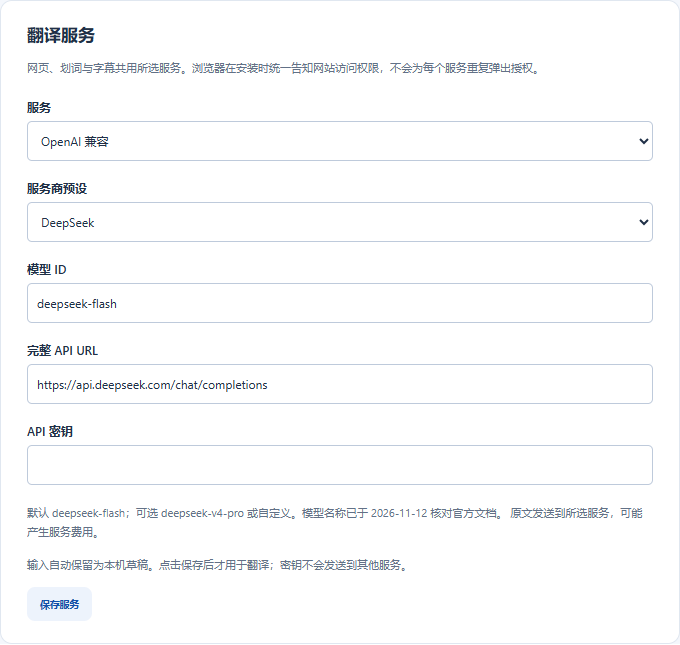
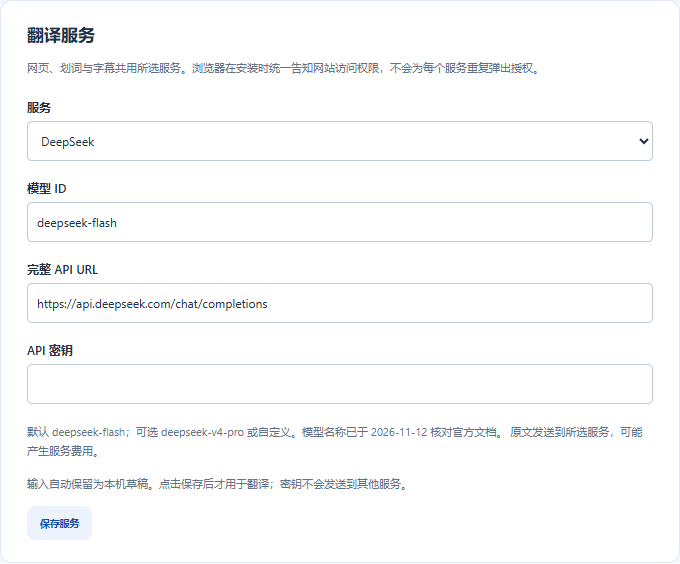
feat: highlight DeepSeek and refresh product README

Changed region(s): [[0.0309, 0.0301, 0.9574, 0.6933], [0.0309, 0.7535, 0.9574, 0.9645], [0.9265, 0.211, 0.9574, 0.2713]]

diff --git a/src/popup/service-editor.js b/src/popup/service-editor.js
@@ -5,9 +5,9 @@ import { loadProviderDraftStore, PUBLIC_SERVICES, SERVICE_NAMES, providerPreset 
 const AI = new Set(['openai', 'anthropic', 'gemini']);
 const markup = `
 <form id="service-form">
-  <div class="field"><label for="service">服务</label><select id="service"><option value="bing">微软翻译</option><option value="google">Google 公共服务</option><option value="libre">自备 LibreTranslate</option><option value="openai">OpenAI 兼容</option><option value="anthropic">Anthropic</option><option value="gemini">Gemini</option></select></div>
+  <div class="field"><label for="service">服务</label><select id="service"><option value="bing">微软翻译（免费）</option><option value="deepseek">DeepSeek</option><option value="google">Google 公共服务</option><option value="libre">自备 LibreTranslate</option><option value="openai">OpenAI 兼容</option><option value="anthropic">Anthropic</option><option value="gemini">Gemini</option></select></div>
   <div id="ai-fields" hidden>
-    <div class="field"><label for="provider">服务商预设</label><select id="provider"></select></div>
+    <div id="provider-field" class="field"><label for="provider">服务商预设</label><select id="provider"></select></div>
     <label class="field" for="model">模型 ID<input id="model" type="text" list="model-list" placeholder="选择推荐模型或填写自定义模型 ID" autocomplete="off" spellcheck="false" /><datalist id="model-list"></datalist></label>
   </div>
   <div id="custom-fields" hidden>
@@ -42,13 +42,20 @@ export async function mountServiceEditor(container, { settings, onSaved = () => 
   }
   function render(draft) {
     current = { ...draft };
-    field('service').value = draft.service;
+    const deepseek = draft.service === 'openai' && draft.preset === 'deepseek';
+    field('service').value = deepseek ? 'deepseek' : draft.service;
+    field('provider-field').hidden = deepseek;
     const ai = AI.has(draft.service);
     const custom = !PUBLIC_SERVICES.has(draft.service);
     field('provider').replaceChildren();
-    const presets = PROVIDER_PRESETS.filter(p => p.id !== 'custom' && p.service === draft.service);
+    const presets = PROVIDER_PRESETS.filter(p => p.id !== 'custom' && p.id !== 'deepseek' && p.service === draft.service);
     for (const preset of [...presets, { id: 'custom', name: '自定义接口' }]) {
       const option = document.createElement('option'); option.value = preset.id; option.textContent = preset.name; field('provider').append(option);
+    }
+    // The dedicated entry still writes the original openai/deepseek draft keys.
+    if (deepseek) {
+      const option = document.createElement('option');
+      option.value = 'deepseek'; option.textContent = 'DeepSeek'; field('provider').append(option);
     }
     field('provider').value = draft.preset;
     field('endpoint').value = draft.endpoint;
@@ -71,7 +78,10 @@ export async function mountServiceEditor(container, { settings, onSaved = () => 
   }
   field('service').addEventListener('change', () => {
     const service = field('service').value;
-    render(store.get(service, store.lastPreset(service)));
+    const protocol = service === 'deepseek' ? 'openai' : service;
+    let preset = service === 'deepseek' ? 'deepseek' : store.lastPreset(protocol);
+    if (service === 'openai' && preset === 'deepseek') preset = 'openai';
+    render(store.get(protocol, preset));
     void persist();
   });
   field('provider').addEventListener('change', () => {

diff --git a/src/popup/index.js b/src/popup/index.js
@@ -1,8 +1,9 @@
 import { DEFAULT_SETTINGS, loadSettings, saveSettings } from '../shared/settings.js';
-import { SERVICE_NAMES } from '../shared/provider-drafts.js';
+import { serviceName } from '../shared/provider-drafts.js';
 import { mountServiceEditor } from './service-editor.js';
 const byId = id => document.getElementById(id);
 const translateButton = byId('translate');
+let serviceSettings = {};
 let activeTab, available = false, pending = false, refreshing = false;
 function status(id, text, error = false) { const node = byId(id); node.textContent = text; node.dataset.error = String(error); if (id === 'preference-status') node.hidden = !text; }
 function renderPage(value) {
@@ -67,8 +68,9 @@ try {
   byId('auto-translate').checked = settings.autoTranslate;
   byId('youtube-enabled').checked = settings.youtubeEnabled;
   byId('selection-enabled').checked = settings.selectionEnabled;
-  byId('service-name').textContent = SERVICE_NAMES[settings.service];
-  await mountServiceEditor(byId('service-editor'), { settings, onSaved: async saved => { byId('service-name').textContent = SERVICE_NAMES[saved.service]; await notifyPage(); } });
+  serviceSettings = settings;
+  byId('service-name').textContent = serviceName(settings);
+  await mountServiceEditor(byId('service-editor'), { settings, onSaved: async saved => { serviceSettings = saved; byId('service-name').textContent = serviceName(saved); await notifyPage(); } });
   byId('auto-translate').disabled = false; byId('youtube-enabled').disabled = false; byId('selection-enabled').disabled = false;
 } catch { status('preference-status', '无法读取设置，请重新加载扩展。', true); }
 try { await connectPage(); } catch { status('page-status', '无法读取当前页面，请重新打开弹窗。', true); }
@@ -78,7 +80,8 @@ window.addEventListener('pagehide', () => clearInterval(timer), { once: true });
 const preferencesChanged = (changes, area) => {
   if (area !== 'local') return;
   for (const [id, key] of [['auto-translate', 'autoTranslate'], ['youtube-enabled', 'youtubeEnabled']]) if (key in changes) byId(id).checked = changes[key].newValue ?? DEFAULT_SETTINGS[key];
-  if ('service' in changes) byId('service-name').textContent = SERVICE_NAMES[changes.service.newValue] || SERVICE_NAMES.bing;
+  for (const key of ['service', 'preset']) if (key in changes) serviceSettings[key] = changes[key].newValue;
+  if ('service' in changes || 'preset' in changes) byId('service-name').textContent = serviceName(serviceSettings);
 };
 chrome.storage.onChanged?.addListener(preferencesChanged);
 window.addEventListener('pagehide', () => chrome.storage.onChanged?.removeListener(preferencesChanged), { once: true });

diff --git a/src/shared/provider-drafts.js b/src/shared/provider-drafts.js
@@ -5,6 +5,9 @@ const FIELDS = ['endpoint', 'apiKey', 'model'];
 const SERVICES = new Set(['bing', 'google', 'libre', 'openai', 'anthropic', 'gemini']);
 export const PUBLIC_SERVICES = new Set(['bing', 'google']);
 export const SERVICE_NAMES = { bing: '微软翻译', google: 'Google 公共服务', libre: '自备 LibreTranslate', openai: 'OpenAI 兼容', anthropic: 'Anthropic', gemini: 'Gemini' };
+export function serviceName(settings) {
+  return settings.service === 'openai' && settings.preset === 'deepseek' ? 'DeepSeek' : SERVICE_NAMES[settings.service] || SERVICE_NAMES.bing;
+}
 export function providerPreset(service, preset) { return PROVIDER_PRESETS.find(item => item.id === preset && item.id !== 'custom' && item.service === service); }
 export function firstPreset(service) { return PROVIDER_PRESETS.find(item => item.id !== 'custom' && item.service === service)?.id || 'custom'; }
 export function normalizeDraft(value = {}) {

diff --git a/README.md b/README.md
@@ -1,145 +1,130 @@
 <p align="center">
-  <img src="assets/icon-128.png" alt="旁译 Aside 原创图标" width="80" height="80">
+  <img src="assets/icon-128.png" alt="旁译 Aside" width="80" height="80">
 </p>
 
 <h1 align="center">旁译 Aside</h1>
 
-<p align="center">网页双语、划词翻译与 YouTube 双语字幕。选一段文字，也能单独翻译。</p>
+<p align="center">网页双语阅读 · 划词翻译 · YouTube 双语字幕</p>
 
 <p align="center">
+  <a href="https://github.com/jking412/aside-translate/releases"><img src="https://img.shields.io/github/v/tag/jking412/aside-translate?label=version&color=2563eb" alt="版本"></a>
   <a href="https://github.com/jking412/aside-translate/actions/workflows/ci.yml"><img src="https://github.com/jking412/aside-translate/actions/workflows/ci.yml/badge.svg?branch=main" alt="构建与测试"></a>
-  <a href="https://github.com/jking412/aside-translate/releases/tag/v0.3.0"><img src="https://img.shields.io/badge/版本-v0.3.0%20预发布-blue" alt="v0.3.0 预发布"></a>
-  <a href="LICENSE"><img src="https://img.shields.io/badge/许可证-MIT-green" alt="MIT 许可证"></a>
+  <a href="LICENSE"><img src="https://img.shields.io/badge/license-MIT-green" alt="MIT"></a>
 </p>
 
 <p align="center">
-  <a href="#下载安装">下载安装</a> · <a href="#功能">功能</a> · <a href="#界面预览">界面预览</a> · <a href="#翻译服务">翻译服务</a> · <a href="#验证状态">验证状态</a> · <a href="#开发">开发</a>
+  <strong><a href="https://github.com/jking412/aside-translate/releases/download/v0.3.1/aside-translate-0.3.1.zip">下载旁译</a></strong> ·
+  <a href="#安装">安装指南</a> ·
+  <a href="#翻译服务">配置 DeepSeek</a> ·
+  <a href="https://github.com/jking412/aside-translate/issues">反馈问题</a>
 </p>
 
-旁译是原生 JavaScript 编写的轻量 Chromium MV3 扩展，无账户和云同步，运行时没有 npm 依赖，也无需常驻 Node 服务。
+旁译是一款面向 Chrome 和 Edge 的轻量翻译扩展。阅读外文网页时，在原文旁查看中文；遇到想细读的一句，选中即可翻译；观看 YouTube 时，用双语字幕对照理解。免费翻译开箱即用，也可以接入自己的 DeepSeek 或其他大模型。
 
-> **v0.3.0：** 新增划词翻译：选中文字，在旁边点击“翻译”，用当前服务查看原文和中文译文；默认开启，可在弹窗或设置页关闭。延续此前的网页双语、字幕与空格修复。真实 YouTube 在线字幕仍受原版和新版共同遇到的空响应限制，详见[验证状态](#验证状态)。
+<p align="center">
+  <img src="docs/images/popup.png" alt="旁译弹窗，提供网页翻译、自动翻译、划词翻译和 YouTube 双语字幕开关" width="344">
+</p>
 
-## 下载安装
+## 用旁译阅读
 
-安装包解压后即可加载，**使用扩展不需要安装 Node.js**。
+### 网页双语，保留阅读上下文
 
-| 下载 | 用途 |
-| --- | --- |
-| [下载旁译 v0.3.0 扩展 ZIP](https://github.com/jking412/aside-translate/releases/download/v0.3.0/aside-translate-0.3.0.zip) | Chrome / Edge 等桌面 Chromium 浏览器，共用一个包 |
-| [下载 SHA-256 校验文件](https://github.com/jking412/aside-translate/releases/download/v0.3.0/aside-translate-0.3.0.zip.sha256) | 校验 ZIP 文件完整性 |
-| [查看版本说明与已知限制](https://github.com/jking412/aside-translate/releases/tag/v0.3.0) | v0.3.0 预发布页面 |
+点击页面上的悬浮按钮或工具栏中的「翻译此页」，中文译文随段落呈现，原文始终可见。需要时一键恢复，也可以打开自动翻译，让之后访问的网页直接进入双语阅读。
 
-1. 下载上表 ZIP，解压到固定文件夹；文件夹内应直接包含 `manifest.json`。
-2. Chrome 打开 `chrome://extensions`，Edge 打开 `edge://extensions`，开启“开发者模式”。
-3. 选择“加载已解压的扩展”，选中解压后的文件夹；将旁译固定到工具栏，刷新准备翻译的网页。
+- 支持滚动加载的新段落，阅读到哪里，翻译到哪里。
+- 保留原文的链接和格式，方便对照阅读、继续浏览。
+- 支持 `Alt+A` 翻译与恢复，`Alt+W` 打开快捷面板。
 
-更新时解压新包，在扩展管理页重新加载，再刷新已有网页。GitHub 自动生成的 **Source code** 是源码包，需要按[开发说明](#开发)构建后使用。目前未上架 Chrome / Edge 商店。
+### 选中一句，单独翻译
 
-## 功能
+选中文字后，点击选区旁的「翻译」，在浮窗中查看原文与中文译文。适合查阅一句说明、读懂一段引用，或在整页翻译前先看重点。
 
-| 功能 | 使用方式 |
-| --- | --- |
-| **网页翻译** | 保留原文，在段落后显示中文。点击页面悬浮球或工具栏“翻译此页”，再次点击恢复；支持拖动吸边、快捷面板、Alt+A / Alt+W、自动翻译与动态新增段落。 |
-| **划词翻译** | 鼠标选中网页文字后，点击旁边的“翻译”按钮，在浮窗查看原文与中文。单纯选择不会发送请求；支持关闭、Esc、错误重试和长文本分段。 |
-| **YouTube 双语字幕** | 打开有字幕的视频，自动触发 CC 并读取播放器原生字幕；提前翻译、按视频时钟显示原文与中文两行。播放器内可切换，拖动、换片和关闭时清理旧字幕。 |
+### YouTube，原文与译文一起看
 
-网页翻译将内联文字合并为完整段落，保留原链接、强调和事件；译文使用安全恢复的对应行内元素。短行紧随原文，长段另起一行，滚动靠近后再翻译。供应商未保留有效格式标记、或单段富文本超过请求上限时，译文安全降为纯文本；原文的链接和事件继续保留。恢复时删除扩展自己的译文，页面应用后来的更新不会被旧快照覆盖。输入框、代码块和播放器区域不参与网页翻译。
+打开带字幕的视频，旁译会读取可用字幕，在播放器内分行展示原文与中文。支持提前翻译，字幕大小随播放器调整，拖动进度或切换视频后跟随当前播放位置更新。
 
-字幕默认优先使用匹配的人工中文轨；缺少人工轨或关闭人工优先时，调用所选翻译服务。可在独立设置页控制人工优先与预先翻译。完整时间轴不可读时，尝试翻译播放器当前字幕，无法预译未来内容；接口慢时可能缺少译文。无字幕轨的视频不会从音频生成文字。
+已有合适的人工中文字幕时优先使用，也可以选择自己的翻译服务。播放器内的翻译按钮与独立设置页都可以控制字幕。
 
-## 界面预览
+## 安装
 
-<table>
-  <tr>
-    <td align="center"><img src="docs/images/popup.png" alt="旁译默认弹窗：翻译按钮、自动翻译和双语字幕开关、折叠服务配置" width="300"></td>
-    <td align="center"><img src="docs/images/subtitles-controlled.png" alt="受控视频中的原文与中文分行字幕演示" width="640"></td>
-  </tr>
-  <tr>
-    <td>默认弹窗，配置保持折叠。</td>
-    <td>合成视频、人工双语输入的受控字幕演示。</td>
-  </tr>
-</table>
+支持桌面版 **Chrome、Edge 及其他 Chromium 浏览器**，使用扩展无需安装 Node.js。
 
-<p align="center"><img src="docs/images/selection-controlled.png" alt="选中网页英文后，旁边出现划词翻译浮窗，显示原文和受控结果" width="596"></p>
+1. **[下载扩展 ZIP](https://github.com/jking412/aside-translate/releases/download/v0.3.1/aside-translate-0.3.1.zip)**，解压到一个固定文件夹。
+2. 在 Chrome 中打开 `chrome://extensions`，或在 Edge 中打开 `edge://extensions`，开启「开发者模式」。
+3. 点击「加载已解压的扩展」，选择包含 `manifest.json` 的文件夹。
+4. 将旁译固定到工具栏，刷新网页，即可使用。
 
-划词图片使用合成网页与回显测试服务，展示选区和浮窗交互，不代表线上翻译质量。
-
-<p align="center"><img src="docs/images/options-deepseek.png" alt="真实扩展设置页：DeepSeek 官方地址与默认模型已填好，只需输入自己的密钥" width="680"></p>
-
-以上均为本项目自己的截图：弹窗图使用受控 Chrome API 替身；字幕图来自加载真实构建的隔离浏览器，输入是合成数据；DeepSeek 图来自实际扩展设置标签页，密钥为空。**字幕演示图不代表真实 YouTube 在线验收成功。** 原创图标的 [SVG 源文件](assets/icon.svg) 与多尺寸 PNG 均随仓库提供。
+更新时，用新安装包替换原文件，在扩展管理页点击「重新加载」，再刷新已打开的网页。安装包与更新内容见 [Releases](https://github.com/jking412/aside-translate/releases)。目前通过 GitHub 分发。
 
 ## 翻译服务
 
-网页、划词和字幕共用一个“翻译服务”设置。可在弹窗编辑，或点击“在独立页面配置”打开不会随切页关闭的设置标签页。各供应商的未保存输入即时保留在本机，切到别处找密钥后可继续；点击保存才用于翻译。
+**免费开始，按需选择 AI。** 网页、划词和字幕共用当前翻译服务，在弹窗中切换，也可以打开独立设置页配置。
 
-| 服务 | 配置 |
-| --- | --- |
-| 微软翻译 | 新安装默认，无需密钥，使用与所供原版相同的 Edge 公共接口；可用性取决于网络和服务限制 |
-| Google 公共服务 | 无需密钥，保留公共 gtx 接口及已有用户的服务选择 |
-| LibreTranslate | 自备完整 `/translate` URL，密钥可选 |
-| OpenAI 兼容 | 提供 OpenAI、DeepSeek、通义千问、智谱、Moonshot、豆包、硅基流动、Mistral、Groq、OpenRouter 端点预设，也可自定义接口 |
-| Anthropic Messages | 原生协议，自备接口、模型 ID 和密钥 |
-| Google Gemini | 原生 generateContent 协议，自备 API 基址、模型 ID 和密钥 |
+### 免费翻译
 
-**DeepSeek 选择后已填好地址和默认模型 `deepseek-flash`**，通常只需自己的 API 密钥；可从建议中选择 `deepseek-v4-pro` 或填写自定义模型。其他 AI 服务使用自己账户可用的模型 ID。各服务的地区端点、套餐、模型权限和计费可能不同，详见 [AI 服务配置与官方依据](docs/ai-services.md)。
+默认使用微软翻译，无需注册旁译账户或填写密钥。也可切换到 Google 公共服务，服务可用性取决于所在网络。
 
-## 权限与隐私
+### DeepSeek
 
-- 自动网页翻译默认关闭；所有 HTTP(S) 网站访问在安装时声明，用于网页悬浮入口、网页/划词翻译和自备服务。使用翻译功能、开启自动翻译或保存服务时均不再弹出权限申请。
-- 浏览器仍可能在安装或升级增加权限时告知一次。可在扩展详情限制网站访问；关闭自动翻译会恢复已连接网页。
-- **文字会发送到所选翻译服务。** 自动翻译可能发送页面中的个人信息；在敏感页面使用前，请先确认是否允许发送。
-- 设置、未保存草稿与密钥仅存本机 `chrome.storage.local`，不启用同步，不持久化网页正文；密钥在本地未加密。AI 请求可能产生服务商费用。
+DeepSeek 位于服务列表的**第二项**，直接选择即可配置。官方接口与默认模型已预填，填入自己的 API Key，点击「保存服务」后即可用于网页、划词和字幕翻译。
 
-完整说明见 [隐私说明](PRIVACY.md)。扩展不包含 OCR、语音模型、文档处理、术语库、账户和同步模块。
+1. 在 [DeepSeek 开放平台](https://platform.deepseek.com/) 获取 API Key。
+2. 打开旁译的「翻译服务」，选择 **DeepSeek**。
+3. 输入 API Key，保存即可。需要其他模型时，可在模型栏选择或填写模型 ID。
 
-## 验证状态
+<p align="center">
+  <img src="docs/images/options-deepseek.png" alt="DeepSeek 独立配置入口，接口和模型已预填，输入自己的 API Key 后保存" width="680">
+</p>
 
-| 范围 | 本次结果 |
-| --- | --- |
-| 单元和隔离浏览器测试 | 协议、段落识别、原文与事件保留、动态更新、视口调度、配置草稿、悬浮入口、原生字幕捕获与时钟；正式 manifest 不作权限预授予改写 |
-| 默认微软真实翻译 | 已在真实扩展后台返回“你好，世界。”；富文本标记也保留 |
-| 真实 YouTube | 新版和原版同视频、同机独立配置都收到空字幕正文，在线双语显示未通过；见[验证记录](docs/verification.md) |
-| 云 AI 真实鉴权调用 | 未使用用户密钥或计费服务；协议通过单元和本机 HTTP 测试 |
+独立设置页会保持打开，各服务的输入也会保留为本机草稿，方便切去获取密钥后继续填写。DeepSeek API 按服务商规则计费。
 
-目标为桌面 Chrome / Edge 120+。浏览器内部页、扩展商店、PDF、封闭 Shadow DOM 和画布文字不参与网页翻译。普通 HTTP(S) iframe 使用独立内容脚本处理。原版私有站点规则库未复制，复杂网站、地区/账号差异、直播与广告仍需持续验证。
+### 更多模型与自定义服务
 
-完整证据、复现方法及已知限制见 [验证记录](docs/verification.md)；构建状态见 [GitHub Actions](https://github.com/jking412/aside-translate/actions)。
+支持 OpenAI、通义千问、智谱 GLM、Kimi、豆包、硅基流动、Mistral、Groq、OpenRouter，以及 Claude、Gemini 和自备 LibreTranslate。可选择服务商预设，也可填写自己的兼容接口和模型 ID。配置方法见 [AI 服务指南](docs/ai-services.md)。
 
-## 开发
+## 隐私
 
-需要 Node.js 22+ 与 npm。
+旁译无需账户，设置与 API Key 保存在当前浏览器本机。使用翻译时，待翻译文字会发送到你选择的服务，AI 请求使用你自己的密钥与额度。
 
-```shell
+自动翻译默认关闭，可以在插件中控制，并通过浏览器扩展详情管理网站访问范围。具体数据处理和存储方式见 [隐私说明](PRIVACY.md)。
+
+## 常见问题
+
+**视频没有显示双语字幕？**
+
+先确认视频有可用字幕、播放器 CC 已打开，并检查所选翻译服务是否可用。旁译依赖 YouTube 提供字幕，部分视频或网络环境可能返回空字幕。只有屏幕字幕可读时，会尝试实时翻译，速度取决于服务响应。更多排查信息见 [使用与验证记录](docs/verification.md)。
+
+**哪些页面可以翻译？**
+
+支持普通网页及其中的文字内容。浏览器内部页面、扩展商店、PDF、图片与画布文字等场景暂不支持。
+
+**如何反馈问题？**
+
+请在 [Issues](https://github.com/jking412/aside-translate/issues) 提供浏览器版本、页面地址与复现步骤。涉及翻译服务时，附上服务商和模型名，提交前请遮挡 API Key 和个人信息。
+
+## 开发与贡献
+
+需要 Node.js 22+ 和 npm。
+
+```sh
 git clone https://github.com/jking412/aside-translate.git
 cd aside-translate
 npm ci
 npm run build
 ```
 
-构建输出为 `dist/`，按前面的步骤加载。只修改源码后需要重新构建、重新加载扩展并刷新网页。
+构建后加载 `dist/`。修改源码后，重新构建、重新加载扩展并刷新网页。
 
-```shell
+```sh
 npx playwright install chromium
 npm run verify
 npm run package
 ```
 
-`verify` 包含语法/权限/图标检查、单元测试、构建、隔离浏览器测试及划词交互检查。真实网络探测单独运行 `npm run test:online`，无真实双语字幕时返回非零。已有独立 Chromium 时，可将 `ASIDE_CHROMIUM_PATH` 设为其可执行文件绝对路径。CI 使用固定版本官方 Playwright 容器。
+`verify` 运行静态检查、单元测试与隔离浏览器测试，`package` 在 `release/` 生成安装包。核心代码位于 `src/content`（网页与字幕）、`src/shared`（翻译服务与配置）、`src/background`（后台请求）和 `src/popup` / `src/options`（界面）。
 
-| 目录 | 职责 |
-| --- | --- |
-| `src/background` | 翻译请求、队列、设置入口和跨帧动作 |
-| `src/content` | 网页翻译、播放器桥接和字幕显示 |
-| `src/shared` | 配置、服务协议、字幕时间轴与服务预设 |
-| `src/popup` / `src/options` | 中文弹窗、持久设置页与供应商草稿编辑 |
-| `assets` | 原创图标源与各尺寸 PNG |
-| `tools` / `tests` | 构建、验证与打包 |
+欢迎提交 Issue 和 Pull Request。更多信息见 [架构说明](docs/design.md)、[贡献指南](CONTRIBUTING.md)、[发布流程](docs/release.md)与[验证记录](docs/verification.md)。
 
-`npm run package` 在 `release/` 生成扩展 ZIP 和 SHA-256。发布流程见 [发布说明](docs/release.md)。测试原始输出、临时媒体、测试浏览器资料、密钥配置、`node_modules`、`dist` 和 `release` 均不进入 Git；README仅收录已审查的自有演示图片。
+## 许可
 
-## 贡献与许可
-
-欢迎提交问题和改进建议，见 [贡献说明](CONTRIBUTING.md)与[问题反馈](https://github.com/jking412/aside-translate/issues)。原创代码和图标采用 [MIT](LICENSE)，第三方工具及旧素材授权检查见 [第三方声明](THIRD_PARTY_NOTICES.md)。
-
-README 的信息结构参考 [awesome-readme](https://github.com/matiassingers/awesome-readme) 收录的 Sniffnet、GitPoint，以及相关翻译扩展的安装文档；仅借鉴章节组织，文字与图片均来自本项目。选取理由和来源见 [README 结构参考](docs/readme-references.md)。
+代码与图标采用 [MIT License](LICENSE)。第三方依赖说明见 [THIRD_PARTY_NOTICES](THIRD_PARTY_NOTICES.md)。

diff --git a/docs/verification.md b/docs/verification.md
@@ -1,5 +1,16 @@
 # 验证记录
 
+## v0.3.1：推广首页与 DeepSeek 独立入口
+
+日期：2026-11-13。README 按产品用途、下载、配置和常见问题组织。安装包校验附件保留在 Release，测试依据保留在本文件与 readme-references.md。首页不再展示旧合成视频和回显翻译图片；弹窗截图来自 UI 测试，DeepSeek 配置截图来自本轮正式扩展的真实设置标签页，密钥为空。
+
+DeepSeek 在弹窗和独立设置页中成为第二项服务，第一项为免费微软翻译。界面选择 DeepSeek 后隐藏供应商预设，正式配置和草稿仍使用原 openai/deepseek 键，不做密钥迁移。界面状态通过 service 与 preset 共同更新，跨窗口保存也显示正确名称。
+
+本机 npm run verify 通过 73 项单元测试与 56 组浏览器检查（正式扩展17、网页8、UI10、字幕8、划词13），页面脚本错误为0。UI 新增检查独立入口的顺序、默认模型、密钥必填、无重复供应商选择、旧版模型与密钥保留；正式扩展验证弹窗关闭后的草稿存储，以及独立设置页打开、清空密钥并刷新后的结果。本机浏览器为隔离 Chromium 143，未使用日常配置。构建和打包通过，ZIP含17个运行文件。
+
+本轮不使用云AI密钥作真实鉴权调用，没有重新测量在线字幕服务；之前的网络结果仍见下文。单元测试和本机HTTP服务覆盖翻译协议，不将其写成全部付费模型在线通过。
+
+
 ## v0.3.0：划词翻译
 
 日期：2026-11-12。新增纯文本选区翻译，直接复用正式内容脚本和后台翻译协议，不增加权限或依赖。新增工具 tools/selection-test.mjs 使用未改写的正式 manifest、本机受控翻译服务、人工网页与独立浏览器资料，检查真实鼠标拖选、只点击才发送、原文节点/选区保留、关闭与重试、新旧异步结果隔离、长文本、编辑区排除、跨源 iframe 与视口边界。

diff --git a/docs/readme-references.md b/docs/readme-references.md
@@ -43,3 +43,7 @@ v0.1.0 应链接 [具体版本页](https://github.com/jking412/aside-translate/r
 [Sniffnet](https://github.com/GyulyVGC/sniffnet/blob/main/LICENSE-MIT) 提供 MIT 许可文件，仓库还标示 Apache-2.0；[GitPoint](https://github.com/gitpoint/git-point/blob/master/LICENSE) 使用 MIT。[KISS Translator](https://github.com/fishjar/kiss-translator/blob/dev/LICENSE) 标示 GPL-3.0；[Read Frog](https://github.com/mengxi-ream/read-frog/blob/main/README.md#-contribute) 声明 GPLv3 与商业双重许可。
 
 本次仅借鉴常见章节顺序、下载优先和图片说明方法，没有复制这些项目的段落、HTML 模板、徽章源文件、图标、截图或代码。保留以上出处用于说明编辑思路；如将来实际复用内容或素材，应逐项核对其具体许可与归属，不能因仓库公开或被 awesome-readme 收录就直接使用。
+
+## 推广首页调整（2026-11-13）
+
+参考 [LocalSend](https://github.com/localsend/localsend/blob/main/README.md)、[Immich](https://github.com/immich-app/immich/blob/main/README.md)、[FreeTube](https://github.com/FreeTubeApp/FreeTube/blob/development/README.md) 的产品介绍、截图和主下载入口组织。README 按用途、安装、翻译服务、隐私、常见问题与开发呈现。校验文件保留在 Release，已有测试边界保留在 verification.md。原有 selection-controlled.png 和 subtitles-controlled.png 是合成输入的交互示例，本次首页不再展示；DeepSeek 截图跟随独立服务入口更新。正文不添加在线字幕或云模型真实鉴权的验收结论。

diff --git a/docs/ai-services.md b/docs/ai-services.md
@@ -2,7 +2,7 @@
 
 网页、划词和 YouTube 字幕共用“翻译服务”设置，可从弹窗或独立设置页编辑。各供应商未保存输入会即时保留为本机草稿，切换标签页、关闭弹窗或切换供应商后可以继续；点击“保存服务”才启用。HTTP(S) 网站访问在安装时统一声明，保存服务不再单独请求域名权限。
 
-DeepSeek 与所供原版相同，预填 `deepseek-flash`，下拉提供 `deepseek-flash` / `deepseek-v4-pro`，也可输入自定义模型。常规配置只需自己的密钥；官方地址已填。模型依据核对日期为 2026-11-12，[DeepSeek 官方入门](https://api-docs.deepseek.com/en/) 同时列出这两个标识。其他供应商仍使用用户账户可用的模型 ID，预设不代表服务商合作或全部模型已在线验收。
+DeepSeek 在“服务”列表中作为第二个独立选项，位于免费微软翻译之后。选中后隐藏供应商预设步骤，预填 `deepseek-flash`，下拉提供 `deepseek-flash` / `deepseek-v4-pro`，也可输入自定义模型。常规配置只需自己的密钥；官方地址已填。升级前通过 OpenAI 兼容预设保存的 DeepSeek 配置、模型和草稿继续可用。模型依据核对日期为 2026-11-12，[DeepSeek 官方入门](https://api-docs.deepseek.com/en/) 同时列出这两个标识。其他供应商仍使用用户账户可用的模型 ID，预设不代表服务商合作或全部模型已在线验收。
 
 ## 支持的协议
 

diff --git a/docs/releases/v0.3.1.md b/docs/releases/v0.3.1.md
@@ -1,0 +1,21 @@
+# 旁译 Aside v0.3.1
+
+这次更新让 DeepSeek 更容易找到，也重新整理了项目首页，方便下载、使用和分享。
+
+## 更新内容
+
+- DeepSeek 成为翻译服务列表中的第二个独立选项，紧跟默认的免费微软翻译。
+- 选择 DeepSeek 后直接显示已预填的官方接口和默认模型，无需再次选择服务商。
+- 兼容已有的 DeepSeek 密钥、模型与未保存草稿，切换服务后可以继续填写。
+- 当前服务摘要正确显示 DeepSeek，并跟随其他窗口的设置更新。
+- README 以阅读场景、安装与配置为主，更新 DeepSeek 截图，将详细验证资料放在专门文档。
+
+## 安装与更新
+
+下载 `aside-translate-0.3.1.zip` 并解压，在浏览器扩展管理页加载。已安装用户可以用新包替换原目录，点击“重新加载”，再刷新已有网页。升级不需要重新输入原有的 DeepSeek 配置。
+
+本版保留现有权限范围。翻译文字发送至用户选择的服务，密钥和草稿存于本机。DeepSeek API 费用由用户自己的账户承担。
+
+## 使用说明
+
+YouTube 翻译依赖视频字幕与平台响应，部分环境可能出现空字幕。平台相关的排查方法与验证范围见 [验证记录](https://github.com/jking412/aside-translate/blob/v0.3.1/docs/verification.md)。各服务的实际模型权限和计费以服务商控制台为准。

diff --git a/docs/release.md b/docs/release.md
@@ -1,6 +1,6 @@
 # 发布流程
 
-当前版本为 [v0.3.0 预发布](https://github.com/jking412/aside-translate/releases/tag/v0.3.0)。预发布期间使用具体版本链接，不能依赖排除预发布的 `/releases/latest`。
+当前版本为 [v0.3.1 预发布](https://github.com/jking412/aside-translate/releases/tag/v0.3.1)。预发布期间使用具体版本链接，不能依赖排除预发布的 `/releases/latest`。
 
 ## 发布前
 
